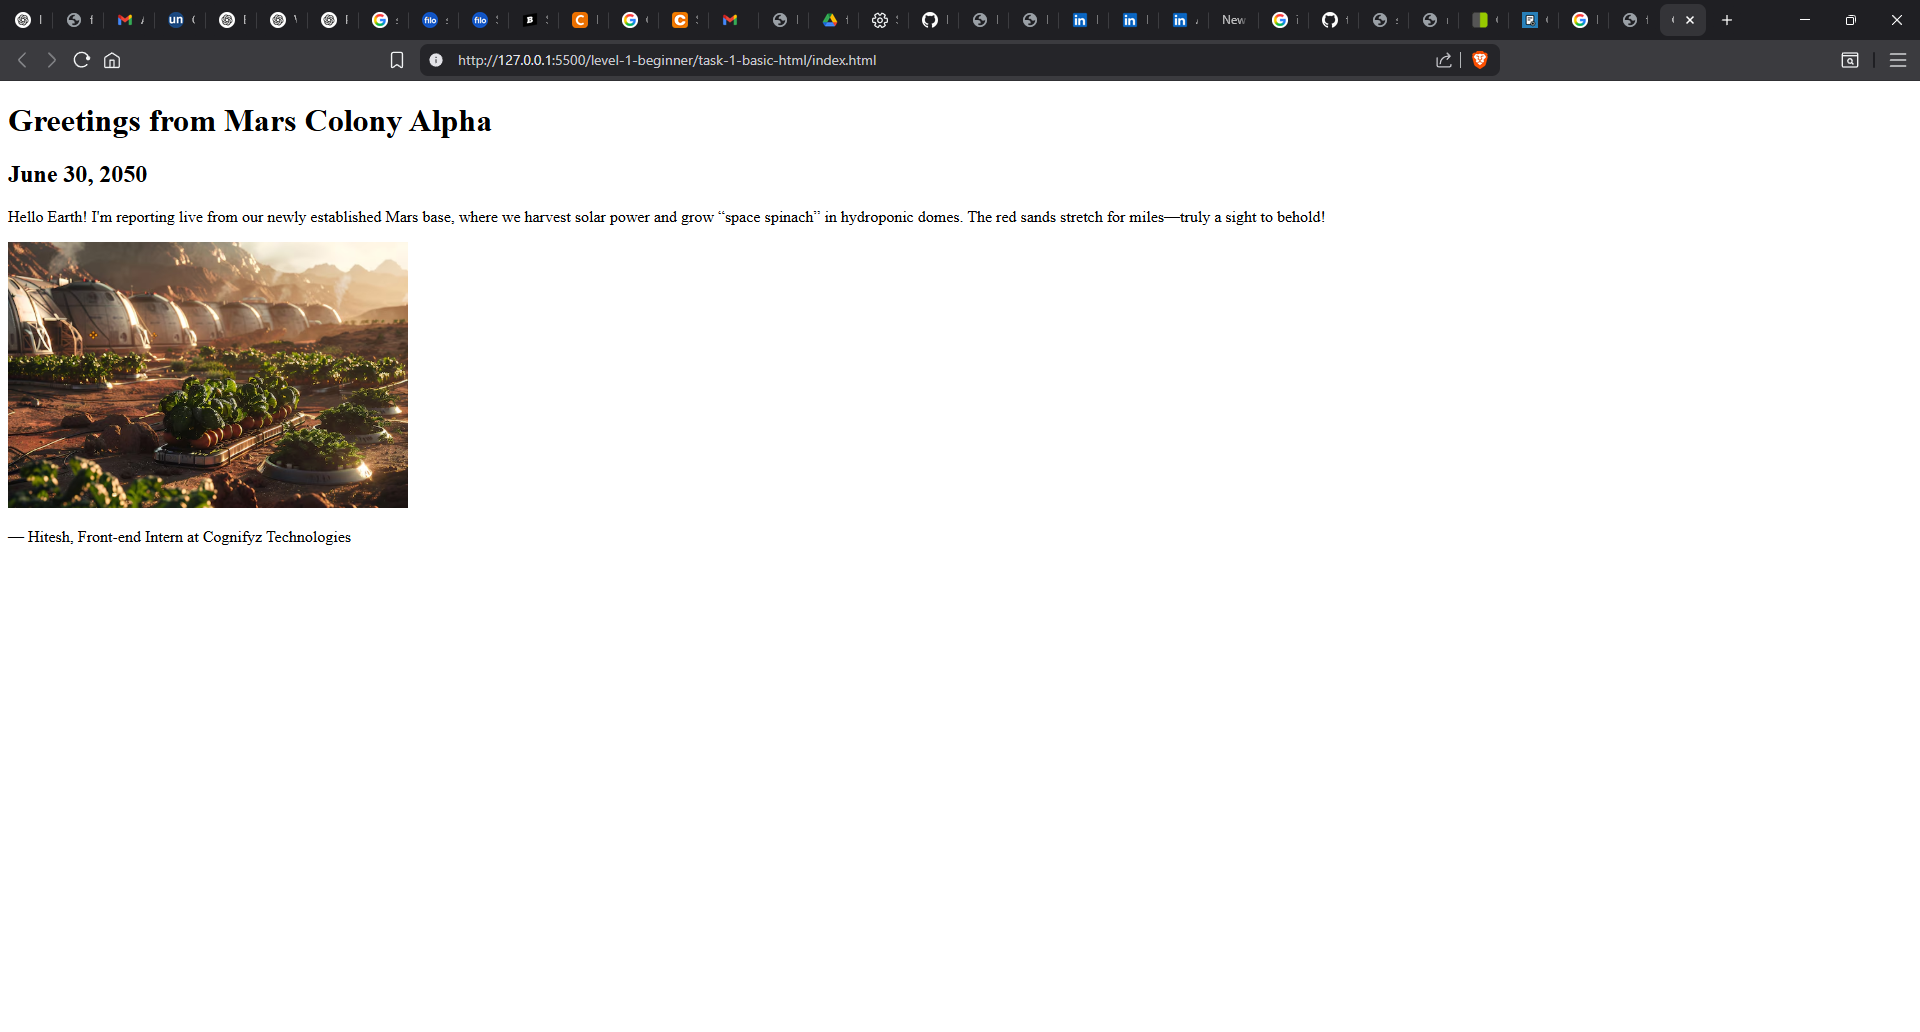
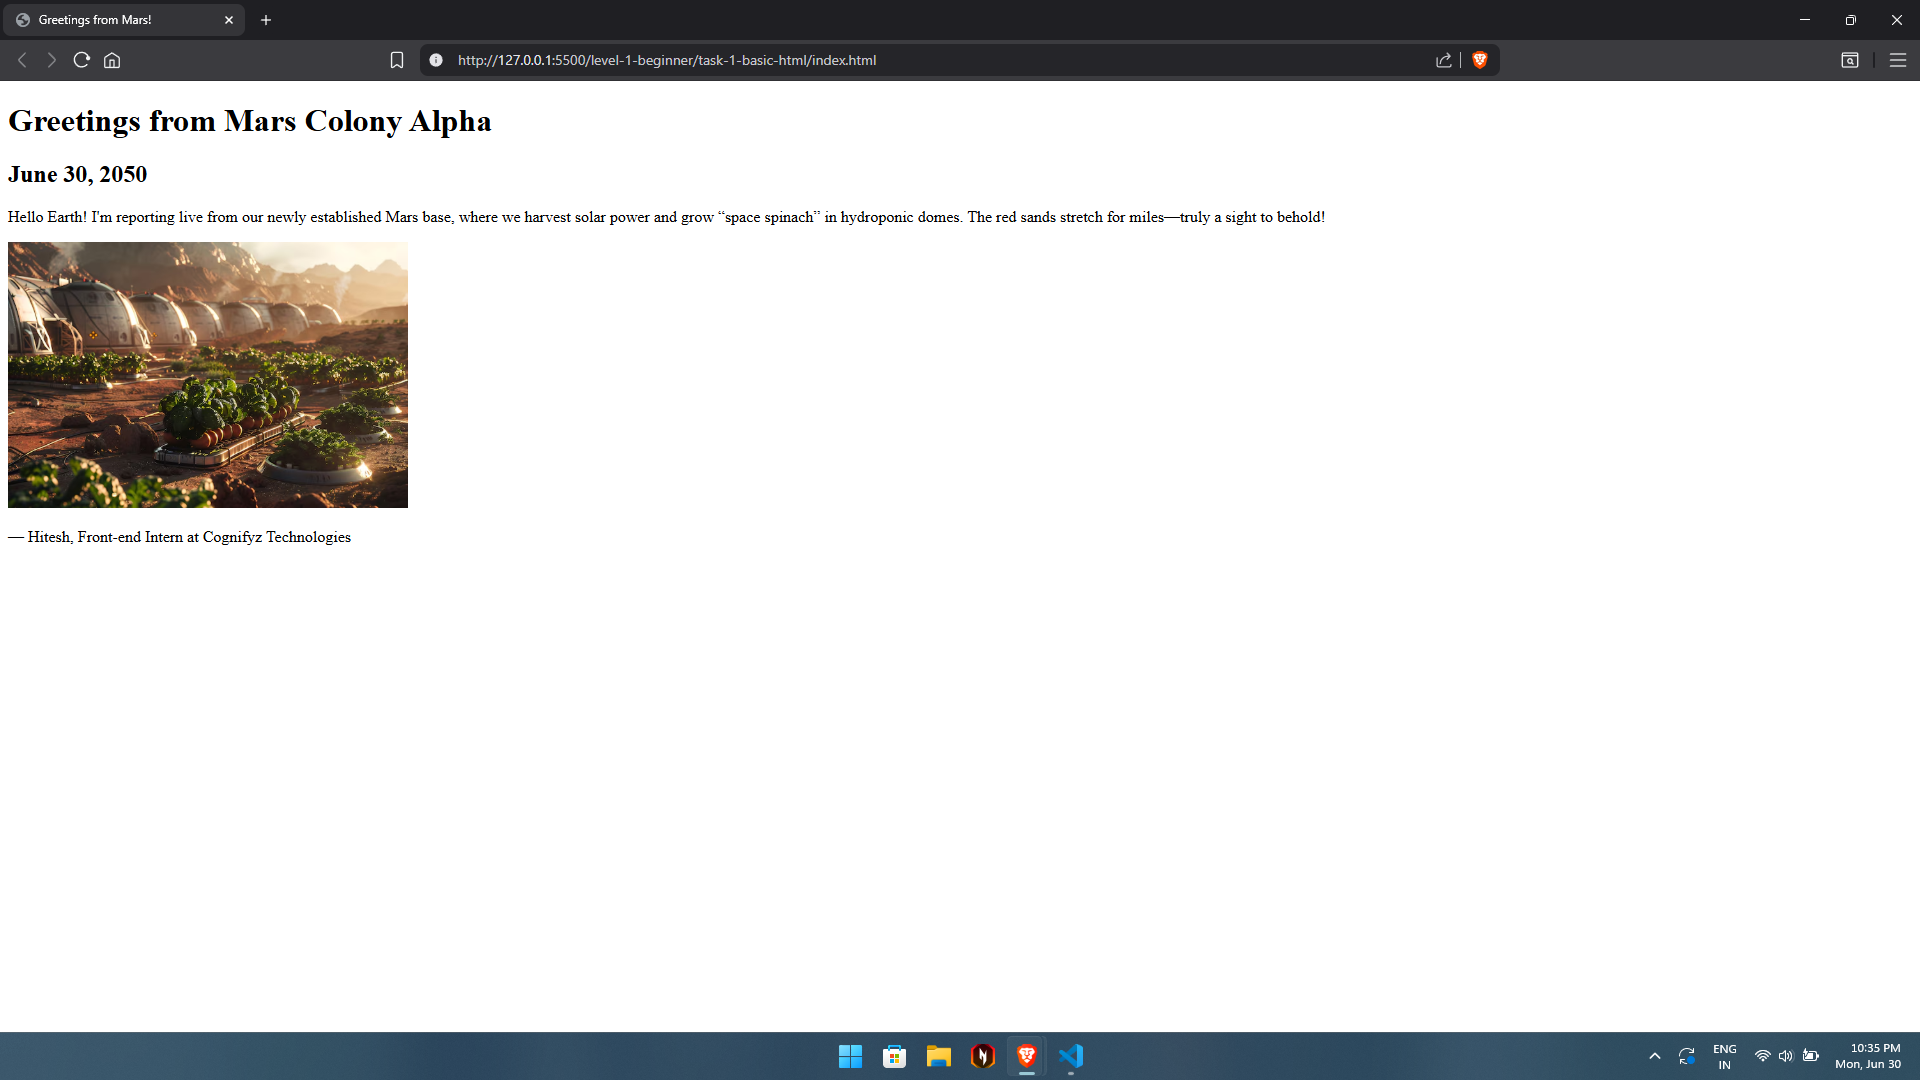
Task 2: Styling with Inline CSS completed

Changed region(s): [[0.0, 0.0, 1.0, 0.5271], [0.0, 0.9302, 1.0, 1.0], [0.5312, 0.0, 0.625, 0.031]]

diff --git a/level-1-beginner/task-2-inline-css/index.html b/level-1-beginner/task-2-inline-css/index.html
@@ -1,0 +1,82 @@
+<!DOCTYPE html>
+<html lang="en">
+  <head>
+    <meta charset="UTF-8" />
+    <meta name="viewport" content="width=device-width, initial-scale=1.0" />
+    <link
+      href="https://fonts.googleapis.com/css2?family=Orbitron:wght@700&family=Rajdhani&family=Share+Tech+Mono&family=Exo+2&display=swap"
+      rel="stylesheet"
+    />
+
+    <title>Greetings from Mars!</title>
+  </head>
+
+  <body>
+    <div
+      class="wrapper"
+      style="
+        height: 98vh;
+        max-width: 100vw;
+        display: flex;
+        flex-direction: column;
+        justify-content: center;
+        align-items: center;
+        background-color: #00f5ff;
+        box-shadow: 0 0 0 20px #00f5ff;
+      "
+    >
+      <div
+        class="card"
+        style="
+          background-color: #1a1a2e;
+          padding: 2em;
+          margin: 1rem;
+          min-height: 250px;
+          max-width: 45rem;
+          align-content: space-evenly;
+          border-radius: 1rem;
+          box-shadow: 0 0 20px #ff512f;
+          border: 1px solid #ff3cac;
+          color: #e0e0e0;
+        "
+      >
+        <h1
+          style="
+            font-family: 'Orbitron', sans-serif;
+            text-shadow: 0 0 5px #00f5ff;
+          "
+        >
+          Greetings from Mars Colony Alpha
+        </h1>
+
+        <aside
+          style="
+            border-radius: 6px;
+            float: right;
+            margin: 10px;
+            overflow: hidden;
+            border: 2px dashed #ff3cac;
+            box-shadow: 0 0 8px #ff512f;
+          "
+        >
+          <img
+            src="assets/mars-view.jpg"
+            alt="Red Martian landscape"
+            width="150px"
+          />
+        </aside>
+
+        <h2 style="font-family: 'Share Tech Mono', monospace">June 30, 2050</h2>
+
+        <p style="padding-right: 100px; font-family: 'Rajdhani', sans-serif">
+          Hello <strong>Earth</strong>! I'm reporting live from our newly
+          established <span style="font-weight: bold">Mars base</span>, where we
+          harvest solar power and grow space spinach in hydroponic domes. The
+          red sands stretch for miles—truly a sight to behold!
+        </p>
+
+        <cite style="font-family: 'Exo 2', sans-serif">— Hitesh</cite>
+      </div>
+    </div>
+  </body>
+</html>

diff --git a/level-1-beginner/task-1-basic-html/index.html b/level-1-beginner/task-1-basic-html/index.html
@@ -10,22 +10,20 @@
 
 <body>
 
-    <div class="wrapper">
-        <div class="container">
-            <h1>Greetings from Mars Colony Alpha</h1>
-            <h2>June 30, 2050</h2>
-            <p>
-                Hello Earth! I'm reporting live from our newly established Mars base,
-                where we harvest solar power and grow “space spinach” in hydroponic domes.
-                The red sands stretch for miles—truly a sight to behold!
-            </p>
-            <img src="assets/mars-view.jpg" alt="Red Martian landscape" width="400" />
+    <h1>Greetings from Mars Colony Alpha</h1>
+    <h2>June 30, 2050</h2>
+    
+    <p>
+        Hello Earth! I'm reporting live from our newly established Mars base,
+        where we harvest solar power and grow “space spinach” in hydroponic domes.
+        The red sands stretch for miles—truly a sight to behold!
+    </p>
 
-            <footer>
-                <p>— Hitesh, Front-end Intern at Cognifyz Technologies</p>
-            </footer>
-        </div>
-    </div>
+    <img src="assets/mars-view.jpg" alt="Red Martian landscape" width="400" />
+
+    <p>— Hitesh, Front-end Intern at Cognifyz Technologies</p>
+
+
 
 </body>
 

diff --git a/README.md b/README.md
@@ -17,8 +17,8 @@
 
 | 📶 Level | 🧠 Task                            | 🚀 Status |
 |---------:|-----------------------------------|:----------|
-| 1        | Basic HTML Page                   | ⏳ Pending |
-| 1        | Styling with Inline CSS           | ⏳ Pending |
+| 1        | Basic HTML Page                   | ✅ Done |
+| 1        | Styling with Inline CSS           | ✅ Done |
 | 2        | Responsive Design                 | ⏳ Pending |
 | 2        | Interactive Button                | ⏳ Pending |
 | 3        | API Integration                   | ⏳ Pending |
